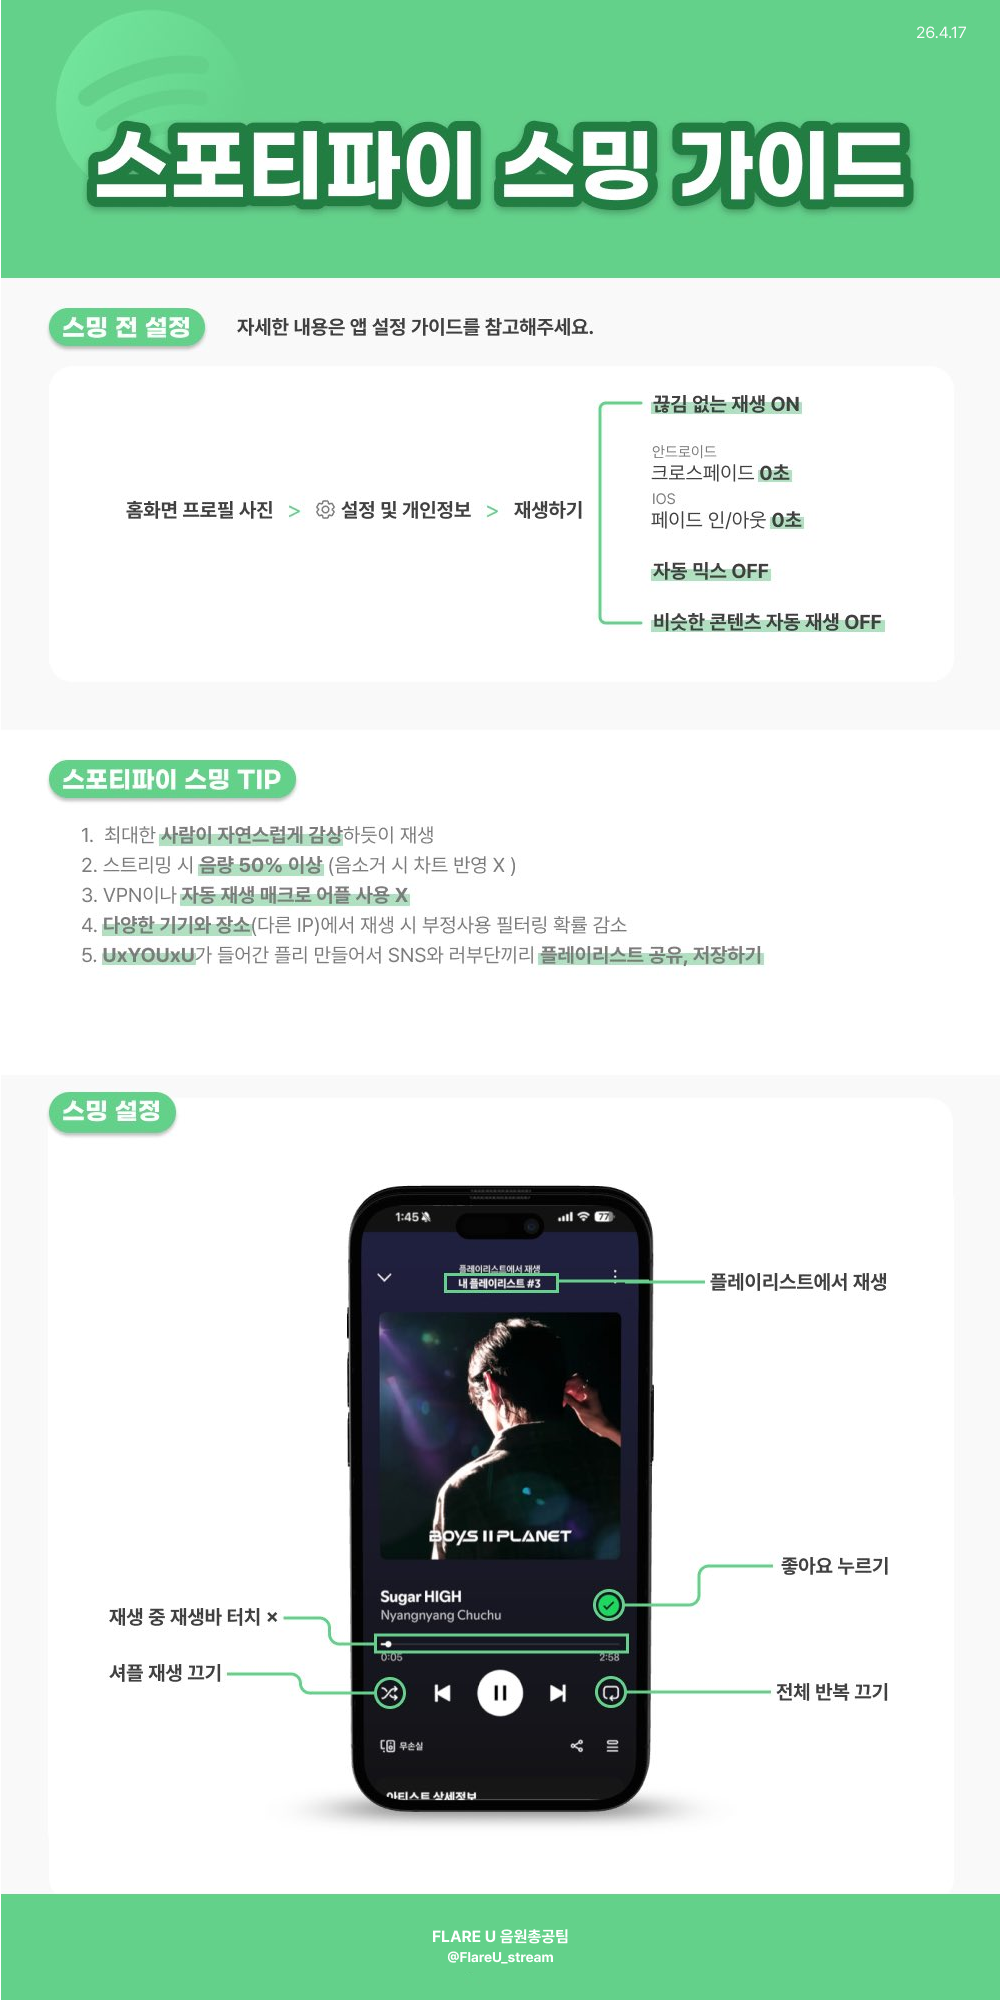
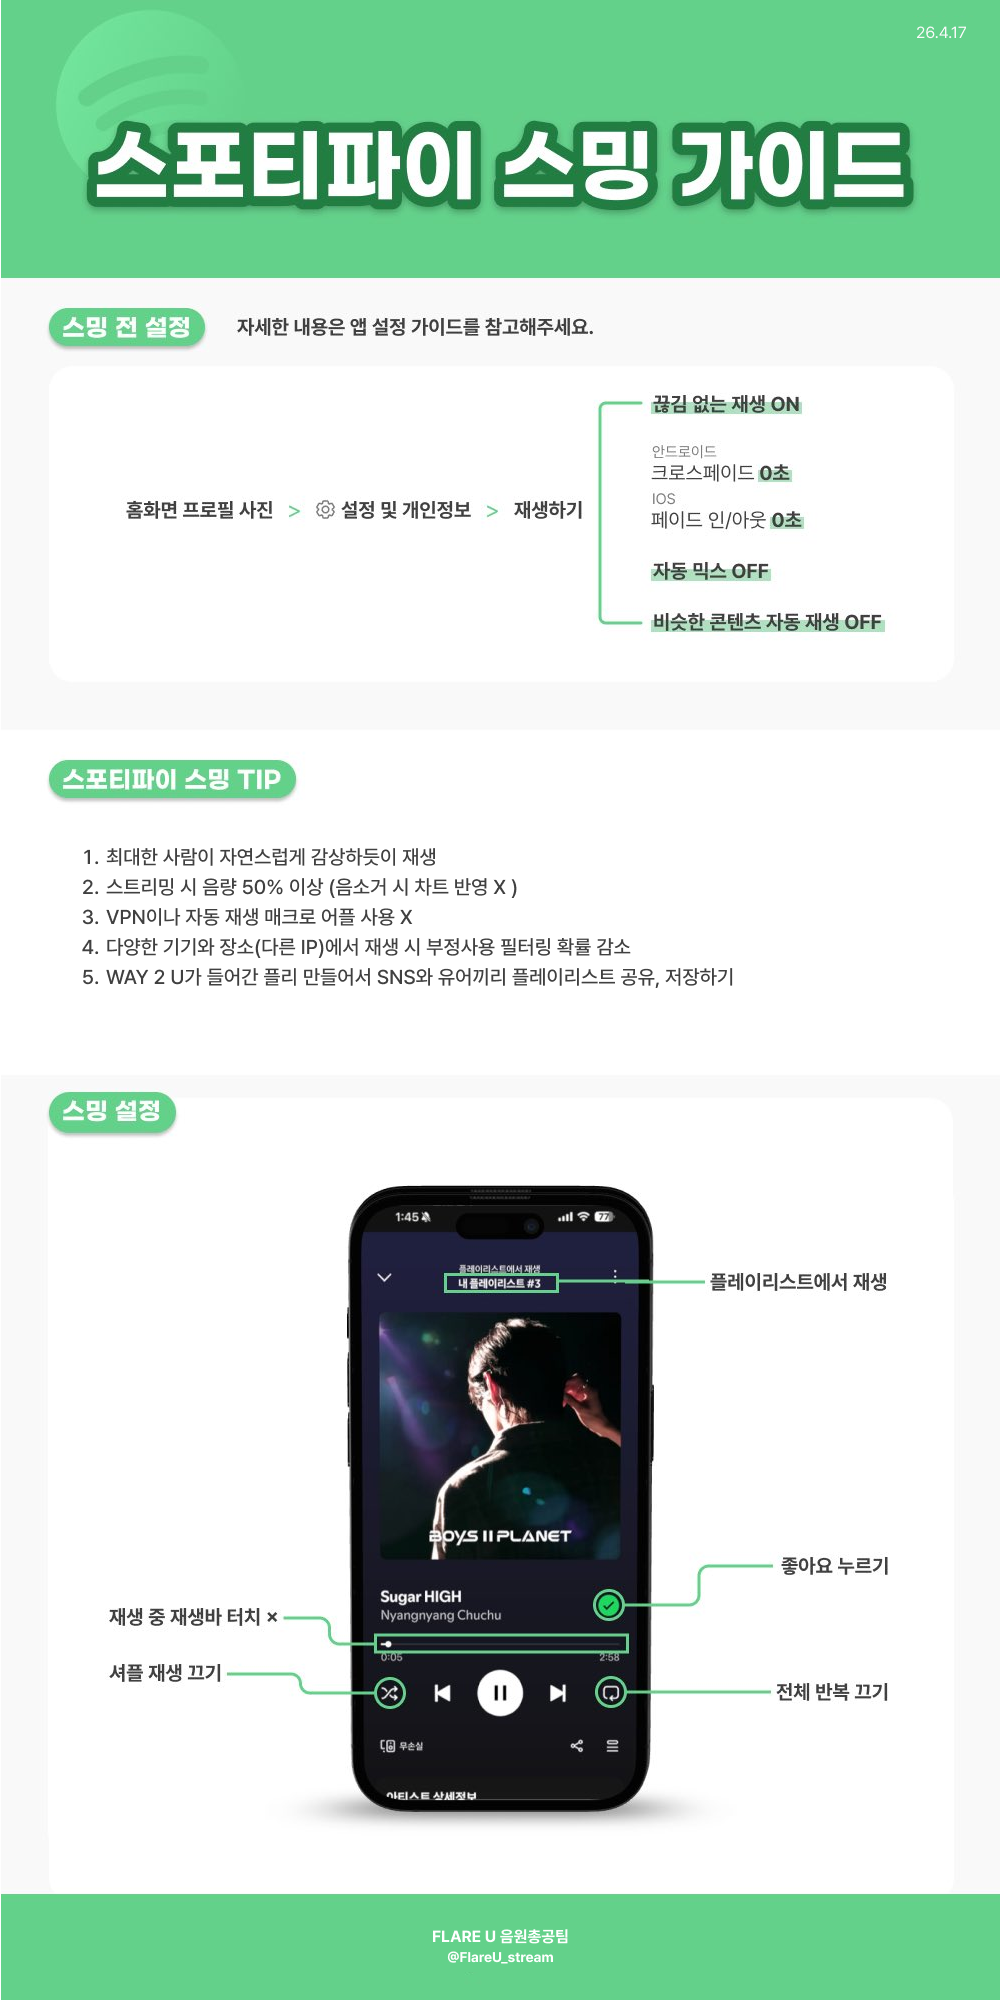
Add files via upload

Changed region(s): [[0.062, 0.403, 0.775, 0.496]]

diff --git a/app.js b/app.js
@@ -58,7 +58,7 @@ const downloadContents = {
     melonGift: `<img src="image/download_guide/Melon_Gift_Guide1.jpg" class="guide-img" alt="멜론 선물하기 가이드 이미지">`,
     bugs: `<div class="img-sequence"><img src="image/download_guide/bugs_mobile.png" class="guide-img" alt="벅스다운모바일"><img src="image/download_guide/bugs_pc.png" class="guide-img" alt="벅스다운PC"></div>`,
     genie: `<div class="img-sequence"><img src="image/download_guide/genie_mobile.png" class="guide-img" alt="지니다운모바일"><img src="image/download_guide/genie_pc.png" class="guide-img" alt="지니다운PC"></div>`,
-    mv: `<div class="img-sequence"><img src="image/download_guide/MV_download1.png" class="guide-img" alt="뮤비 다운로드 가이드"></div>`,
+    mv: `<div class="img-sequence"><img src="image/download_guide/MV_download1.png" class="guide-img" alt="뮤비 다운로드 가이드 1"><img src="image/download_guide/MV_download2.png" class="guide-img" alt="뮤비 다운로드 가이드 2" style="margin-top: 10px;"></div>`,
     kakao: `<div class="img-sequence"><img src="image/download_guide/KakaoMusic_Down_Guide.png" class="guide-img" alt="카카오뮤직 다운로드 가이드 이미지"><img src="image/download_guide/KakaoMusic_Down_Guide2.png" class="guide-img" alt="카카오뮤직 다운로드 가이드 2"></div>`,
     vcolor: `<img src="image/download_guide/Vcalling_Guide.png" class="guide-img" alt="V컬러링 가이드 이미지">`
 };
